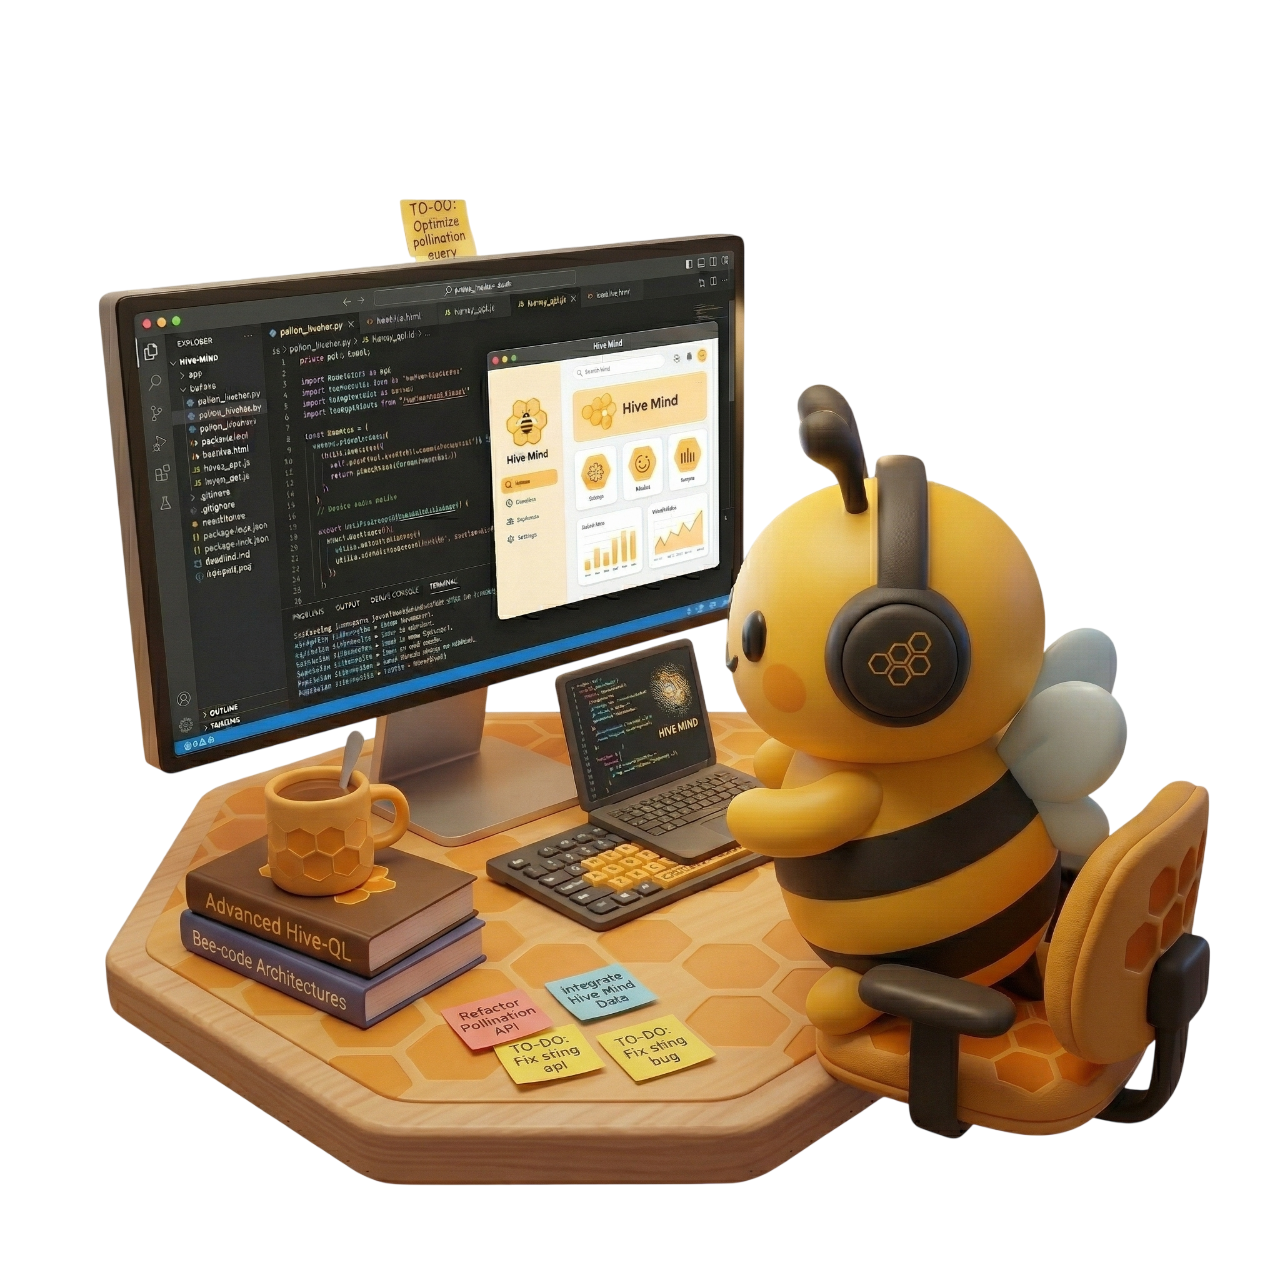
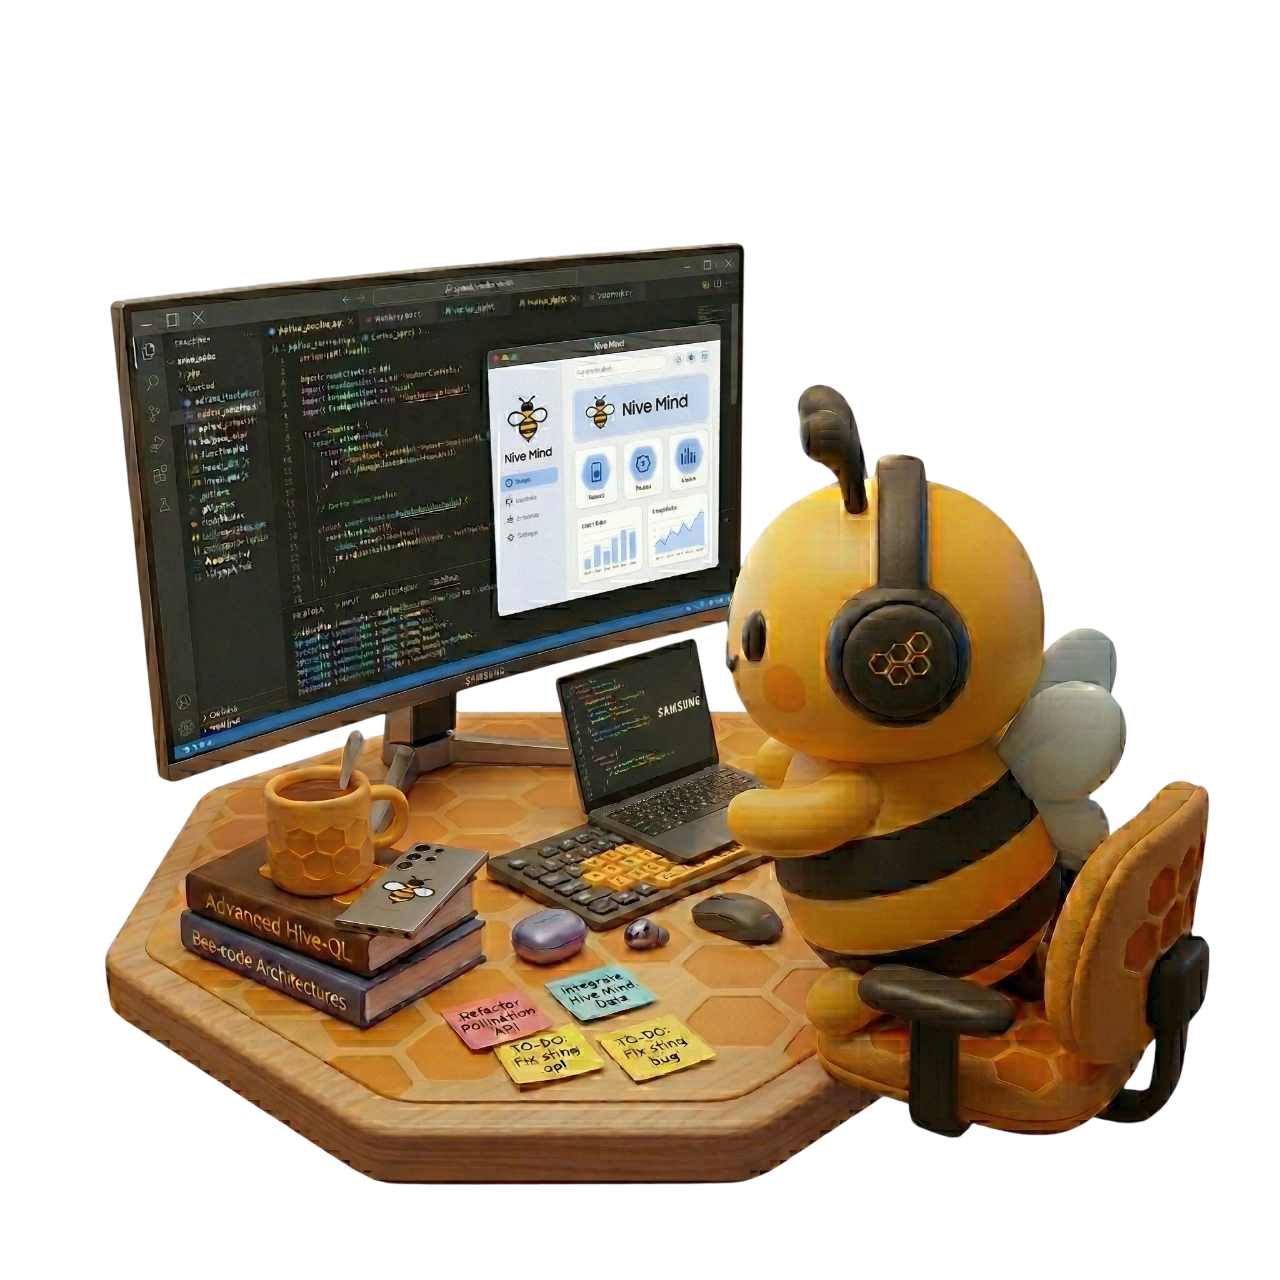
[S14P21E107-415] feat : 포트폴리오/프로젝트 히어로 배너 확장 및 포트폴리오 생성 단일 선택 적용

diff --git a/frontend/src/pages/PortfolioList.tsx b/frontend/src/pages/PortfolioList.tsx
@@ -1,8 +1,9 @@
 import { useState, useEffect, useRef } from 'react';
 import { useNavigate } from 'react-router-dom';
-import { ArrowLeft, Download, FilePlus, Briefcase, Trash2, Pencil, Check, X } from 'lucide-react';
+import { Download, FilePlus, Briefcase, Trash2, Pencil, Check, X } from 'lucide-react';
 import toast from 'react-hot-toast';
 import { getMyPortfolios, savePortfolioAsFile, deletePortfolioApi, updatePortfolioTitle, type PortfolioSummary } from '../api/portfolio';
+import portfolioImg from '../assets/images/portfolio.png';
 
 const formatDate = (dateStr: string): string => {
   const date = new Date(dateStr);
@@ -103,35 +104,84 @@ const PortfolioList = () => {
       style={{ backgroundColor: 'var(--color-background)' }}
       className="min-h-screen"
     >
-      <div className="max-w-[1400px] mx-auto px-4 sm:px-6 lg:px-8 py-6 sm:py-10">
-        {/* 헤더 */}
-        <div className="flex items-center justify-between mb-8">
-          <div className="flex items-center gap-3">
-            <button
-              onClick={() => navigate(-1)}
-              className="text-text-tertiary hover:text-text-primary transition-colors"
-            >
-              <ArrowLeft className="w-6 h-6" />
-            </button>
+      {/* 히어로 배너 */}
+      <div className="relative w-[calc(100%+32px)] sm:w-[calc(100%+48px)] lg:w-[calc(100%+64px)] -mx-4 sm:-mx-6 lg:-mx-8 -mt-8">
+        <section
+          data-navbar-hero
+          className="overflow-hidden bg-primary-soft/[0.36]"
+          style={{ height: '380px' }}
+        >
+          <div className="max-w-[1400px] mx-auto pr-4 sm:pr-6 lg:pr-8 flex flex-col justify-center pt-13 pb-14 pl-[8%]">
             <h1
-              className="text-2xl font-bold"
-              style={{ color: 'var(--color-text-primary)' }}
+              className="font-bold"
+              style={{ fontSize: '40px', color: '#111827', lineHeight: '1.35' }}
             >
               내 포트폴리오
             </h1>
-            {!isLoading && portfolios.length > 0 && (
-              <span className="text-sm font-medium text-text-tertiary">{portfolios.length}개</span>
-            )}
+            <p
+              className="mt-4 mb-2"
+              style={{ fontSize: '22px', color: '#4A5565' }}
+            >
+              AI가 생성한 포트폴리오를 관리하세요
+            </p>
+
+            {/* 새 포트폴리오 버튼 + 최신 포트폴리오 카드 */}
+            <div className="flex gap-4 mt-4 items-stretch">
+              {/* 새 포트폴리오 만들기 버튼 */}
+              <button
+                type="button"
+                onClick={() => navigate('/mypage/portfolio/new')}
+                className="rounded-[16px] border-2 border-dashed border-border flex flex-col items-center justify-center gap-2 cursor-pointer w-[220px] h-[170px] flex-shrink-0 transition-all duration-300 hover:border-[#6366f1] hover:shadow-md text-text-tertiary hover:text-[#6366f1]"
+              >
+                <FilePlus className="w-8 h-8" />
+                <span className="text-sm font-bold">
+                  새 포트폴리오 만들기
+                </span>
+              </button>
+
+              {/* 최신 포트폴리오 카드 */}
+              {!isLoading && portfolios.length > 0 && portfolios.slice(0, 2).map((latest) => (
+                <div
+                  key={latest.portfolioId}
+                  className="bg-surface border-2 border-border rounded-[16px] shadow-[0px_4px_16px_0px_rgba(0,0,0,0.06)] w-[220px] h-[170px] flex-shrink-0 cursor-pointer text-left transition-all duration-300 hover:scale-[1.06] hover:shadow-[0px_12px_32px_0px_rgba(0,0,0,0.14)] p-4 flex flex-col"
+                  onClick={() => {
+                    if (latest.s3Url) window.open(latest.s3Url, '_blank', 'noopener,noreferrer');
+                  }}
+                >
+                  <div className="-ml-1 self-start rounded-[8px] px-[8px] py-[2px] bg-[rgba(99,102,241,0.12)]">
+                    <p className="text-sm font-semibold leading-[15px]" style={{ color: '#6366f1' }}>
+                      최근 포트폴리오
+                    </p>
+                  </div>
+                  <div className="mt-4 flex-1 flex flex-col">
+                    <p className="font-semibold text-text-primary text-base leading-[20px] break-words line-clamp-2">
+                      {latest.title}
+                    </p>
+                    <p className="text-[12px] text-text-tertiary mt-auto pt-3">
+                      수정: {formatDate(latest.updatedAt)}
+                    </p>
+                  </div>
+                </div>
+              ))}
+            </div>
           </div>
-          <button
-            onClick={() => navigate('/mypage/portfolio/new')}
-            className="flex items-center gap-2 px-4 py-2.5 rounded-xl text-sm font-bold text-white transition-opacity hover:opacity-90"
-            style={{ background: 'linear-gradient(135deg, #6366f1, #4f46e5)' }}
-          >
-            <FilePlus className="w-4 h-4" />
-            새 포트폴리오
-          </button>
-        </div>
+        </section>
+
+        <img
+          src={portfolioImg}
+          alt="포트폴리오"
+          className="absolute right-[7%] top-[4%] hidden xl:block"
+          style={{ width: '430px', height: 'auto', zIndex: 10 }}
+        />
+      </div>
+
+      <div className="max-w-[1400px] mx-auto px-4 sm:px-6 lg:px-8 py-6 sm:py-10 mt-6">
+        <p
+          className="text-base mb-4"
+          style={{ color: 'var(--color-text-tertiary)' }}
+        >
+          총 {portfolios.length}개 포트폴리오
+        </p>
 
         {/* 카드 그리드 */}
         {isLoading ? (
@@ -222,15 +272,6 @@ const PortfolioList = () => {
                 </div>
               </div>
             ))}
-
-            {/* 새 포트폴리오 카드 */}
-            <button
-              onClick={() => navigate('/mypage/portfolio/new')}
-              className="flex flex-col items-center justify-center gap-3 border-2 border-dashed border-border rounded-2xl p-8 hover:border-[#6366f1] hover:shadow-md transition-all cursor-pointer text-text-tertiary hover:text-[#6366f1] min-h-[200px]"
-            >
-              <FilePlus className="w-8 h-8" />
-              <span className="text-sm font-bold">새 포트폴리오 만들기</span>
-            </button>
           </div>
         )}
       </div>

diff --git a/frontend/src/pages/MyProjects.tsx b/frontend/src/pages/MyProjects.tsx
@@ -164,7 +164,7 @@ const MyProjects = () => {
               내 프로젝트
             </h1>
             <p
-              className="mt-6"
+              className="mt-4 mb-2"
               style={{ fontSize: '22px', color: '#4A5565' }}
             >
               참여 중인 프로젝트와 완료한 프로젝트를 관리하세요
@@ -191,37 +191,46 @@ const MyProjects = () => {
               </button>
 
               {(() => {
-                const latest = [...myProjects].filter((p) => p.status !== 'DONE').at(-1);
-                if (!latest) return null;
-                const gradient = THUMBNAIL_GRADIENTS[latest.domain] ?? 'linear-gradient(149deg, #F5F5F5, #E0E0E0)';
-                const categoryColor = CATEGORY_COLORS[latest.domain] ?? '#6b7280';
-                return (
-                  <div
-                    className="bg-white border border-[#f0ebe3] overflow-hidden relative rounded-[16px] shadow-[0px_4px_16px_0px_rgba(0,0,0,0.06)] w-[220px] h-[170px] flex-shrink-0 cursor-pointer text-left transition-all duration-300 hover:scale-[1.06] hover:shadow-[0px_12px_32px_0px_rgba(0,0,0,0.14)]"
-                    onClick={() => navigate(`/my-projects/${latest.projectId}`)}
-                  >
-                    {/* 상단 썸네일 */}
+                const latestProjects = [...myProjects]
+                  .filter((p) => p.status !== 'DONE')
+                  .sort((a, b) => b.projectId - a.projectId)
+                  .slice(0, 2);
+
+                if (latestProjects.length === 0) return null;
+
+                return latestProjects.map((latest) => {
+                  const gradient = THUMBNAIL_GRADIENTS[latest.domain] ?? 'linear-gradient(149deg, #F5F5F5, #E0E0E0)';
+                  const categoryColor = CATEGORY_COLORS[latest.domain] ?? '#6b7280';
+
+                  return (
                     <div
-                      className="absolute top-0 left-0 w-full h-[100px] overflow-hidden"
-                      style={{ background: latest.imageUrl ? undefined : gradient }}
+                      key={latest.projectId}
+                      className="bg-white border border-[#f0ebe3] overflow-hidden relative rounded-[16px] shadow-[0px_4px_16px_0px_rgba(0,0,0,0.06)] w-[220px] h-[170px] flex-shrink-0 cursor-pointer text-left transition-all duration-300 hover:scale-[1.06] hover:shadow-[0px_12px_32px_0px_rgba(0,0,0,0.14)]"
+                      onClick={() => navigate(`/my-projects/${latest.projectId}`)}
                     >
-                      {latest.imageUrl && (
-                        <img src={latest.imageUrl} alt={latest.title} className="w-full h-full object-cover" />
-                      )}
-                      <div className="absolute top-[10px] right-[10px] bg-[rgba(255,255,255,0.7)] rounded-[8px] px-[8px] py-[2px]">
-                        <p className="font-semibold text-sm leading-[15px]" style={{ color: categoryColor }}>
-                          최근 프로젝트
+                      {/* 상단 썸네일 */}
+                      <div
+                        className="absolute top-0 left-0 w-full h-[100px] overflow-hidden"
+                        style={{ background: latest.imageUrl ? undefined : gradient }}
+                      >
+                        {latest.imageUrl && (
+                          <img src={latest.imageUrl} alt={latest.title} className="w-full h-full object-cover" />
+                        )}
+                        <div className="absolute top-[10px] right-[10px] bg-[rgba(255,255,255,0.7)] rounded-[8px] px-[8px] py-[2px]">
+                          <p className="font-semibold text-sm leading-[15px]" style={{ color: categoryColor }}>
+                            최근 프로젝트
+                          </p>
+                        </div>
+                      </div>
+                      {/* 하단 정보 */}
+                      <div className="absolute top-[100px] left-0 w-full bottom-0 flex flex-col px-[16px] pt-[15px] pb-[8px]">
+                        <p className="font-semibold text-text-primary text-base leading-[20px] break-words">
+                          {latest.title}
                         </p>
                       </div>
                     </div>
-                    {/* 하단 정보 */}
-                    <div className="absolute top-[100px] left-0 w-full bottom-0 flex flex-col px-[16px] pt-[15px] pb-[8px]">
-                      <p className="font-semibold text-text-primary text-base leading-[20px] break-words">
-                        {latest.title}
-                      </p>
-                    </div>
-                  </div>
-                );
+                  );
+                });
               })()}
             </div>
 

diff --git a/frontend/src/pages/PortfolioCreate.tsx b/frontend/src/pages/PortfolioCreate.tsx
@@ -19,13 +19,14 @@ const CIRCLE_COLORS = ['#E11D48', '#2563EB', '#16A34A', '#E8B931', '#9333EA', '#
 // ── 프로젝트 카드 ─────────────────────────────────────────────────────────────
 const ProjectCard = ({ project, active, hasSelectedTs, onToggle }: { project: ProjectSimple; active: boolean; hasSelectedTs: boolean; onToggle: () => void }) => {
   const isActive = project.status !== 'DONE';
+  const isSelected = active || hasSelectedTs;
   return (
     <button
       type="button"
       onClick={onToggle}
-      aria-pressed={hasSelectedTs}
+      aria-pressed={isSelected}
       className={`rounded-2xl p-5 flex flex-col gap-3 cursor-pointer transition-all text-left w-full ${
-        hasSelectedTs
+        isSelected
           ? 'border-2 border-primary-hover bg-primary-soft shadow-md'
           : active
             ? 'border-2 border-primary-hover bg-surface shadow-sm'
@@ -42,7 +43,7 @@ const ProjectCard = ({ project, active, hasSelectedTs, onToggle }: { project: Pr
             <span className="w-1.5 h-1.5 rounded-full" style={{ backgroundColor: isActive ? 'var(--color-success-dark)' : 'var(--color-text-tertiary)' }} />
             {project.status === 'RECRUITING' ? '모집중' : project.status === 'PROCEEDING' ? '진행중' : '완료'}
           </span>
-          {hasSelectedTs && <CheckCircle2 className="w-5 h-5 text-primary-hover" />}
+          {isSelected && <CheckCircle2 className="w-5 h-5 text-primary-hover" />}
         </div>
       </div>
 
@@ -74,7 +75,7 @@ const TsCard = ({ item, selected, onToggle }: { item: TsItemWithProject; selecte
     type="button"
     onClick={onToggle}
     aria-pressed={selected}
-    className={`flex flex-col border-2 rounded-xl overflow-hidden cursor-pointer transition-all text-left w-full ${
+    className={`flex flex-col border-2 rounded-xl overflow-hidden cursor-pointer transition-all text-left w-full min-h-[125px] ${
       selected
         ? 'border-primary-hover bg-primary-soft shadow-md'
         : 'border-border bg-surface hover:shadow-md'
@@ -149,10 +150,16 @@ const PortfolioCreate = () => {
   }, [tsMap]);
 
   const toggleProject = (projectId: number) => {
-    setActiveProject(projectId);
-    if (!selectedProjects.includes(projectId)) {
-      setSelectedProjects((prev) => [...prev, projectId]);
+    if (activeProject === projectId) {
+      setActiveProject(null);
+      setSelectedProjects([]);
+      setSelectedTs([]);
+      return;
     }
+
+    setActiveProject(projectId);
+    setSelectedProjects([projectId]);
+    setSelectedTs([]);
     fetchTs(projectId);
   };
 

diff --git a/frontend/src/components/feature/recruitment/JobRecommendHero.tsx b/frontend/src/components/feature/recruitment/JobRecommendHero.tsx
@@ -284,7 +284,7 @@ const JobRecommendHero = ({ bookmarkedIds, onToggleBookmark }: JobRecommendHeroP
           <span style={{ color: '#F2B705' }}>TOP 3</span>
         </h2>
 
-        <div className="flex gap-4 lg:gap-[45px] overflow-x-auto overflow-y-visible snap-x snap-mandatory lg:grid lg:grid-cols-3 lg:overflow-visible pt-14 -mt-14" style={{ marginTop: '61px' }}>
+        <div className="flex gap-4 lg:gap-[45px] overflow-x-auto overflow-y-visible snap-x snap-mandatory lg:grid lg:grid-cols-3 lg:overflow-visible pt-14 -mt-20" style={{ marginTop: '10px' }}>
           {top3.map((job, idx) => (
             <div key={job.jobId} className="min-w-[300px] w-[75vw] sm:w-[45vw] shrink-0 lg:w-auto lg:min-w-0 lg:shrink snap-start">
               <JobCard